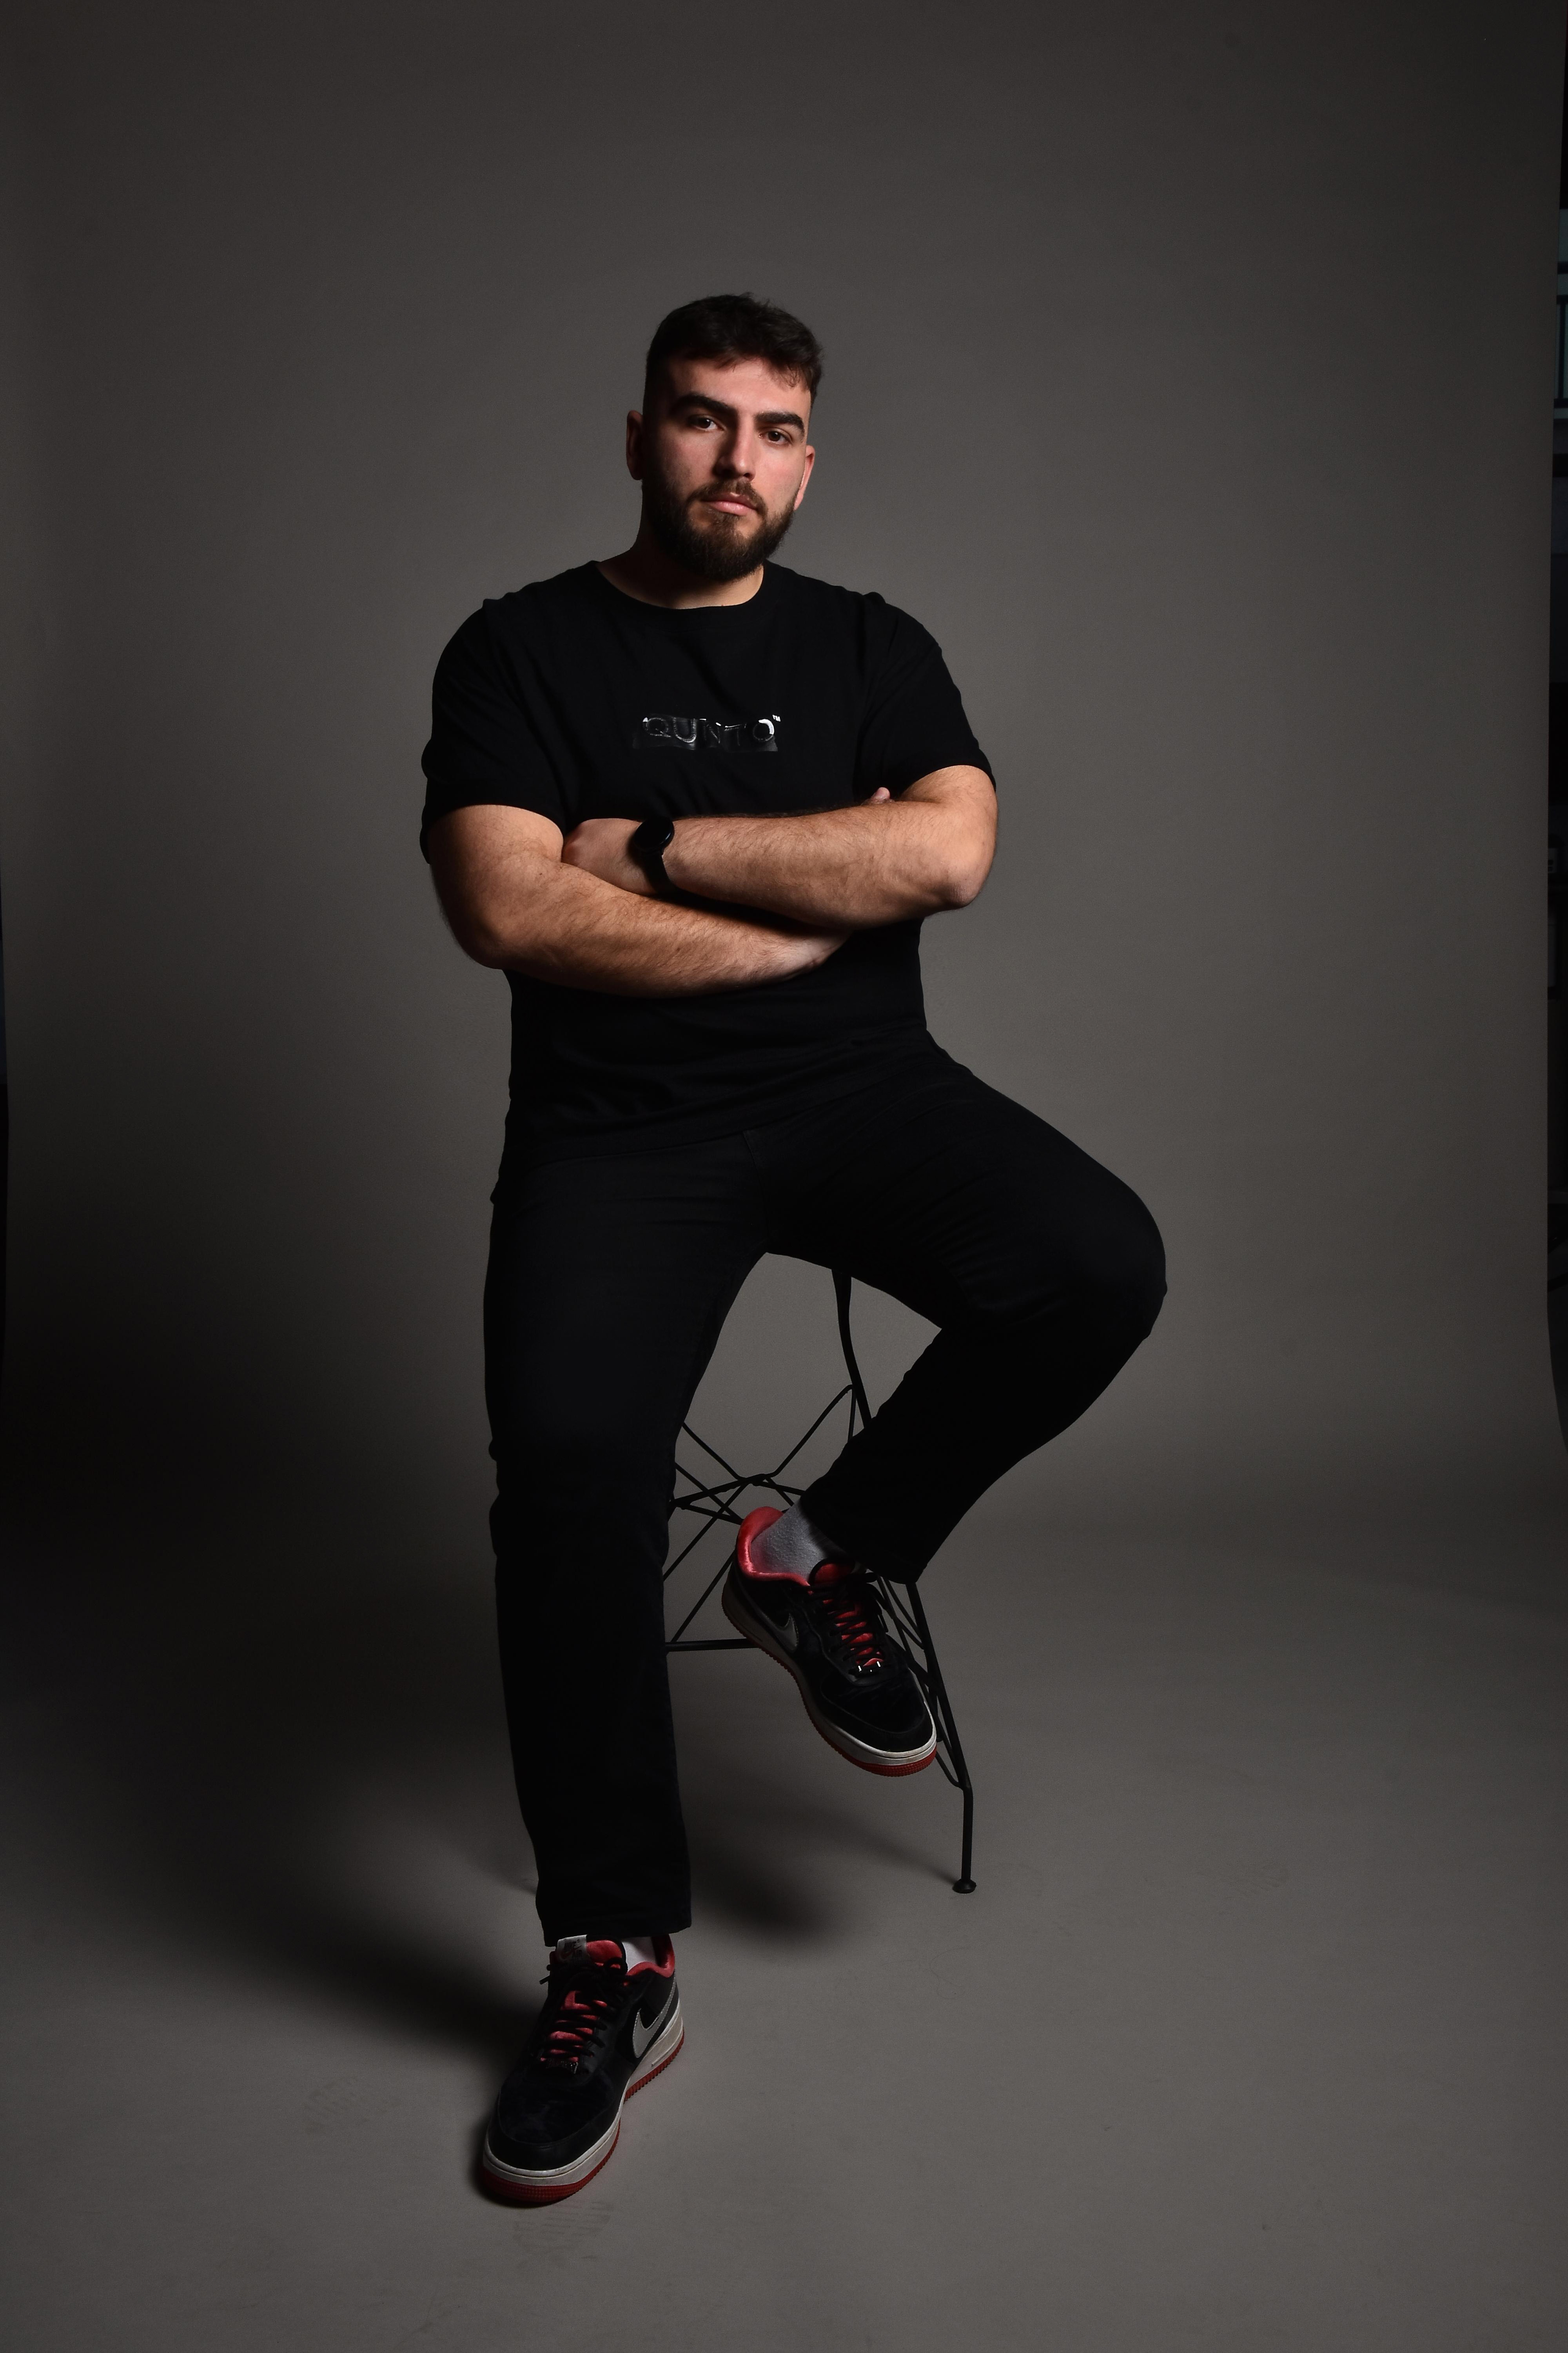
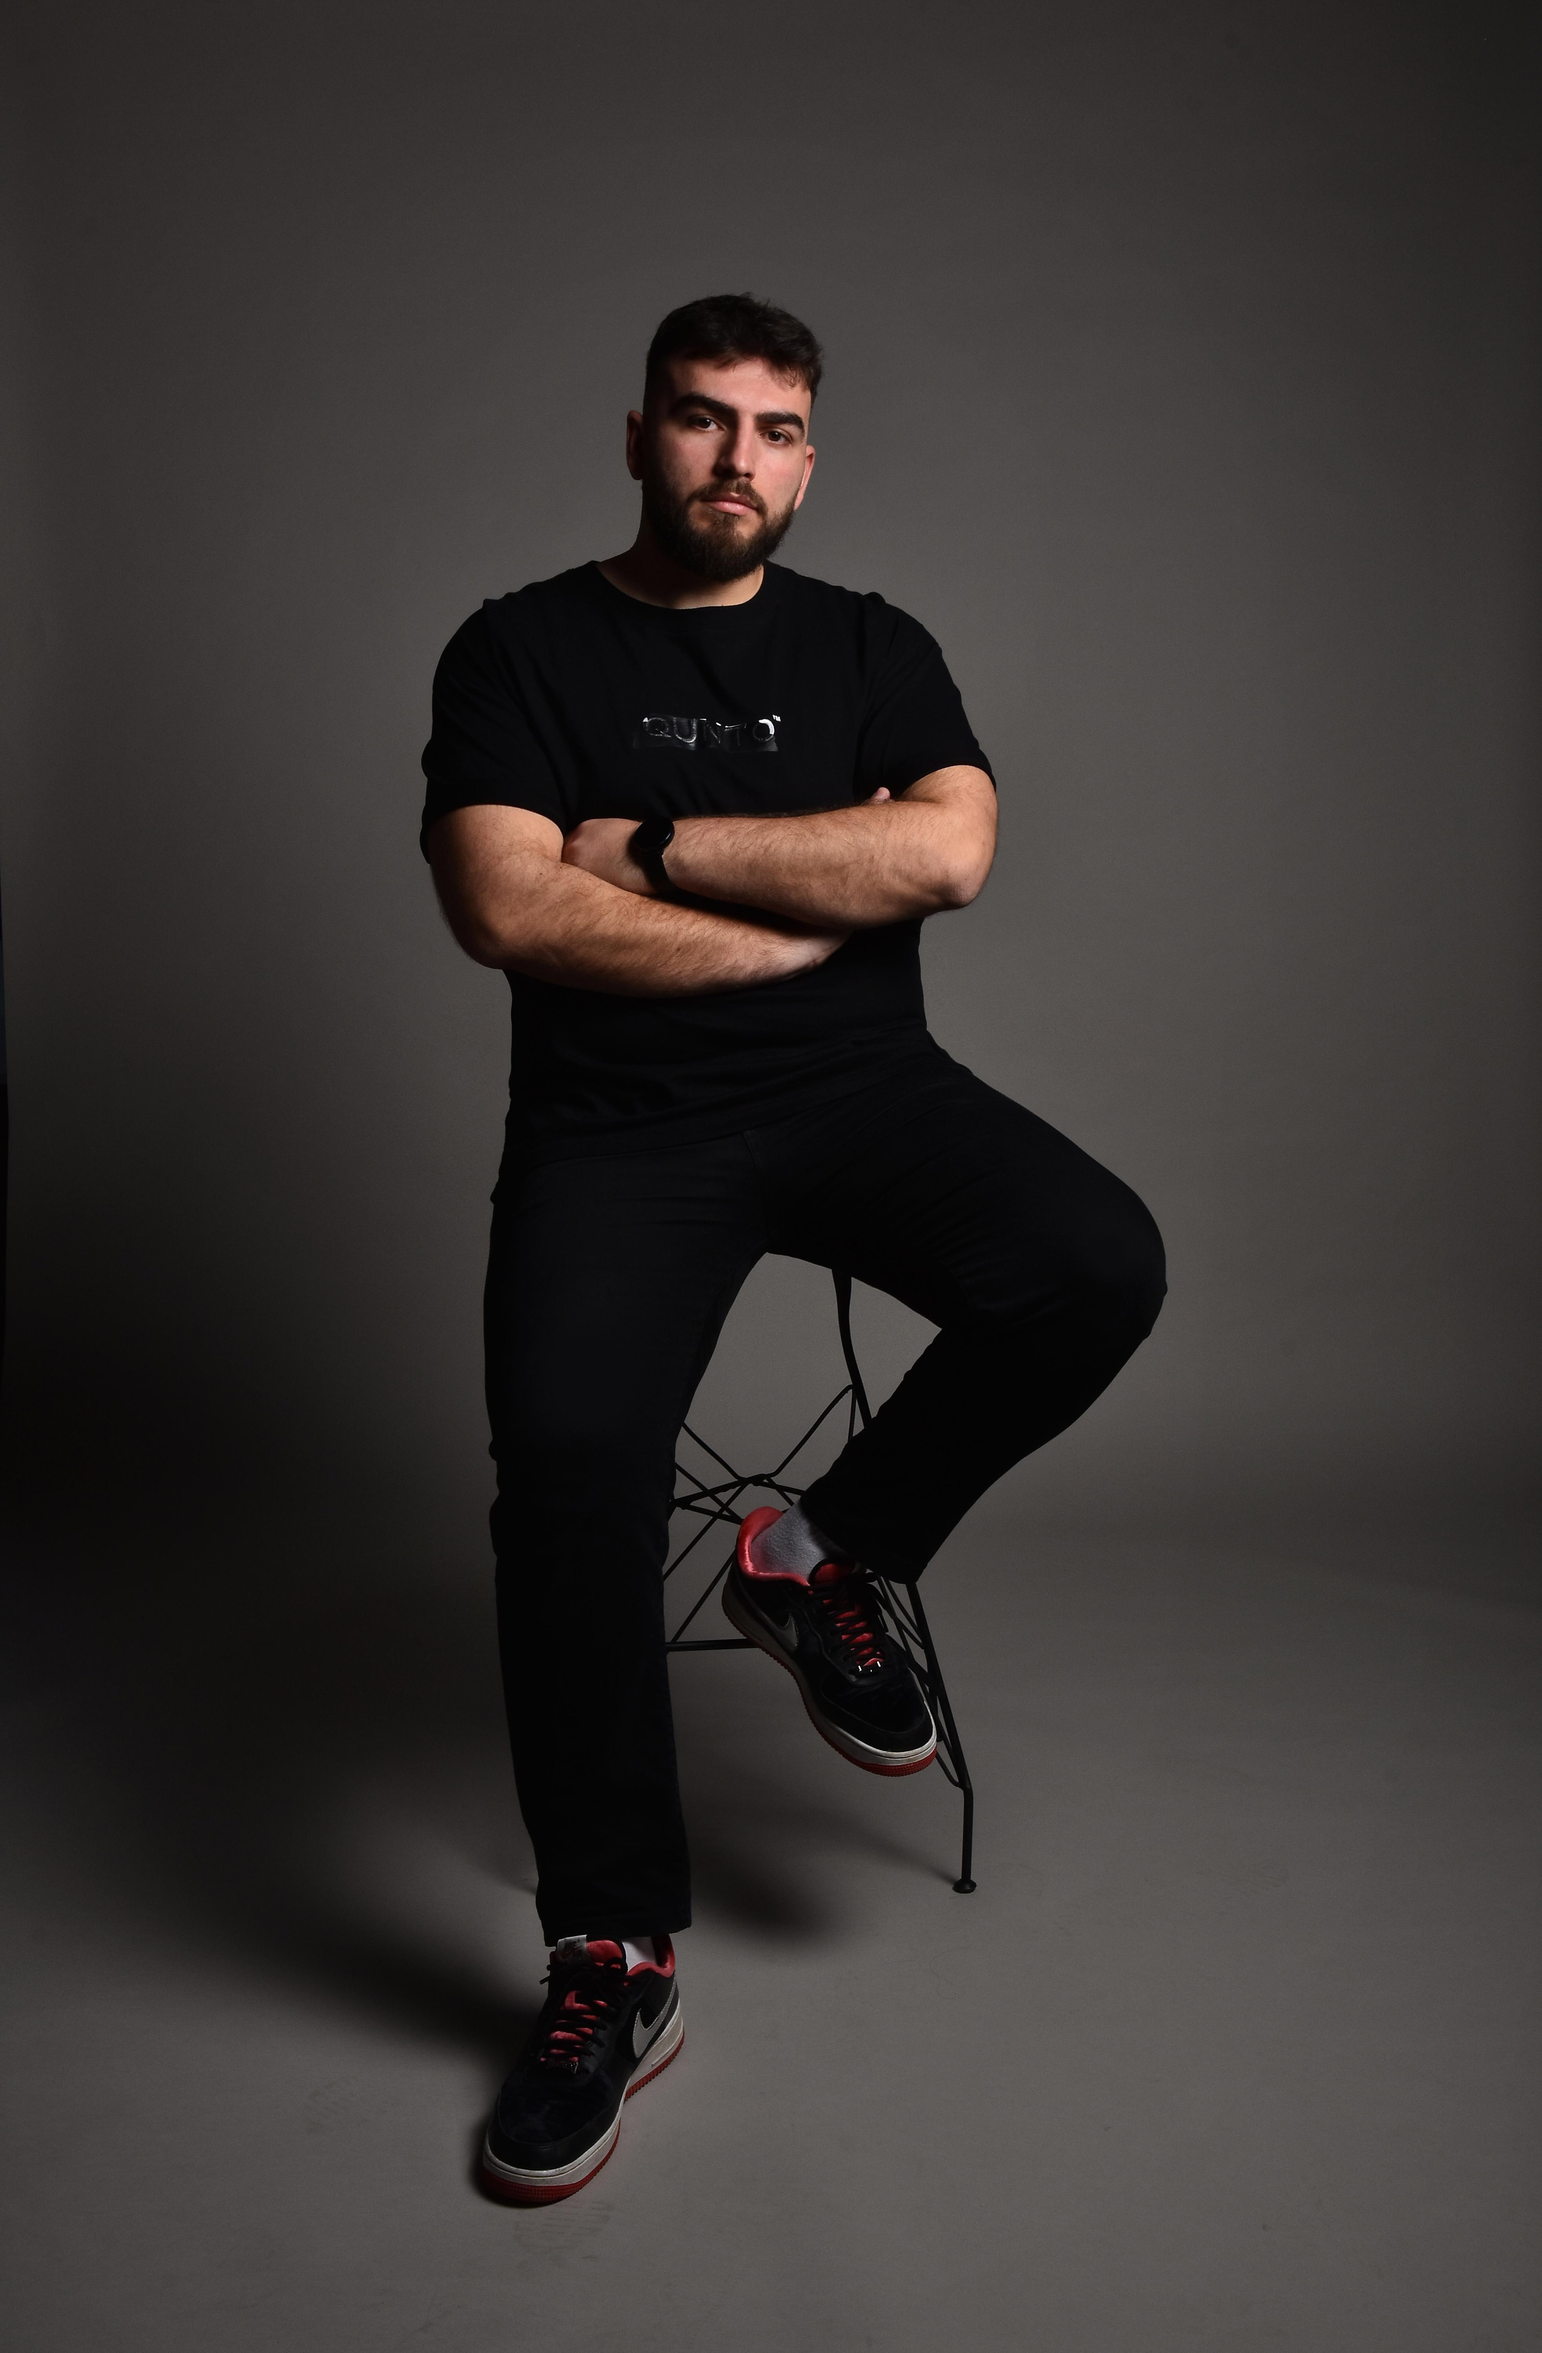
gr

diff --git a/src/Components/TeamPage/teamMembers.js b/src/Components/TeamPage/teamMembers.js
@@ -1,4 +1,4 @@
-import member2 from "../Assets/DSC_5462.JPG";
+import member2 from "../Assets/ariani1.png";
 import member3 from "../Assets/IMG_5735.jpg";
 import member4 from "../Assets/IMG_8442.jpg";
 import member5 from "../Assets/IMG_5733.jpg"
@@ -22,8 +22,10 @@ import fiona from "../Assets/DSC_5024.JPG"
 import kreshnik from "../Assets/32323.png"
 import kestrina from "../Assets/IMG_8444.jpg"
 import alba from "../Assets/IMG_5737.jpg"
-import ariani from "../Assets/DSC_5532.JPG"
+import ariani from "../Assets/ariani2.png"
 import edmiri from "../Assets/DSC_5170.JPG"
+import mirjeta1 from "../Assets/mirjeta.jpg"
+import mirjeta from "../Assets/mirjeta1.jpg"
 
 const teamMembers = [
         
@@ -34,6 +36,7 @@ const teamMembers = [
       position: 'CEO Founder',
       image: ariani,
       hoverImage: member2,
+      linkedinLink: ""
     },
         // Member 3
     {
@@ -42,6 +45,7 @@ const teamMembers = [
       position: 'Operation Manager',
       image: member3,
       hoverImage: alba,
+      linkedinLink: "https://www.linkedin.com/in/alba-krasniqi-87b93a105/"
     },
         // Member 4
         {
@@ -50,6 +54,7 @@ const teamMembers = [
           position: 'Finance Manager',
           image: kestrina,
           hoverImage: member4,
+          linkedinLink: 'https://www.linkedin.com/in/kestrina-hajrizi-92683025a/'
         },
     {
       id: 4,
@@ -57,8 +62,16 @@ const teamMembers = [
       position: 'Account Manager',
       image: member5,
       hoverImage: dora,
+      linkedinLink: 'https://www.linkedin.com/in/dora-kryeziu-872299255/'
     },
-       
+    {
+      id: 40,
+      name: 'Mirjeta Murselaj',
+      position: 'Finance Officer',
+      image: mirjeta1,
+      hoverImage: mirjeta,
+      linkedinLink: 'https://www.linkedin.com/in/mirjeta-murselaj-2a0a94162/'
+    },
     {
       id: 5,
       name: 'Edmir Kuleta',
@@ -70,9 +83,10 @@ const teamMembers = [
     {
       id: 6,
       name: 'Gentrit Mehmeti',
-      position: 'Senior Graphic Designer',
+      position: 'Senior Graphic Designer | UI/UX Designer',
       image: member8,
       hoverImage: gentrit,
+      linkedinLink: 'https://www.linkedin.com/in/gentrit-mehmeti-5a88511b3/'
     },
         // Member 10
     {
@@ -81,6 +95,7 @@ const teamMembers = [
       position: 'Graphic Designer',
       image: member10,
       hoverImage: eduart,
+      linkedinLink: 'https://www.linkedin.com/in/eduart-demaj-524641236/'
     },
         // Member 11
     {
@@ -89,6 +104,7 @@ const teamMembers = [
       position: 'Graphic Designer',
       image: member11,
       hoverImage: hana,
+      linkedinLink: 'https://www.linkedin.com/in/hana-jaha/'
     },
         // Member 12
     {
@@ -97,6 +113,15 @@ const teamMembers = [
       position: 'Graphic Designer',
       image: member12,
       hoverImage: andena, 
+      linkedinLink: 'https://www.linkedin.com/in/andena-rexhepi-069108258/'
+    },
+    {
+      id: 11,
+      name: 'Endrit Morina',
+      position: '3D Artist',
+      image: member14,
+      hoverImage: endrit, 
+      linkedinLink:'https://www.linkedin.com/in/endritmorina/'
     },
     {
       id: 10,
@@ -104,22 +129,7 @@ const teamMembers = [
       position: 'Motion Designer',
       image: member13,
       hoverImage: fuad, 
-    },
-        // Member 14
-    {
-      id: 11,
-      name: 'Endrit Morina',
-      position: '3D Artist',
-      image: member14,
-      hoverImage: endrit, 
-    },
-        // Member 15
-    {
-      id: 12,
-      name: 'Kreshnik Kelmendi',
-      position: 'Web Developer',
-      image: member15,
-      hoverImage: kreshnik, 
+      linkedinLink: 'https://www.linkedin.com/in/fuad-shatri-7411371a5/'
     },
     {
       id: 13,
@@ -127,7 +137,16 @@ const teamMembers = [
       position: 'TikTok Creator',
       image: member16,
       hoverImage: fiona, 
-    }
+      linkedinLink: 'https://www.linkedin.com/in/fiona-rrecaj-45a0b5236/'
+    },
+    {
+      id: 12,
+      name: 'Kreshnik Kelmendi',
+      position: 'Web Developer',
+      image: member15,
+      hoverImage: kreshnik, 
+      linkedinLink: 'https://www.linkedin.com/in/kreshnik-kelmendi-90b796242/'
+    },
 
 
   ];

diff --git a/src/Components/TeamPage/Team.jsx b/src/Components/TeamPage/Team.jsx
@@ -2,7 +2,6 @@ import React, { useState } from 'react';
 import { motion } from 'framer-motion';
 import { useInView } from 'react-intersection-observer';
 import { teamMembers } from './teamMembers';
-import { FaInstagram } from 'react-icons/fa';
 import { FaLinkedin } from 'react-icons/fa';
 import LazyLoad from 'react-lazy-load';
 
@@ -17,6 +16,11 @@ const TeamMember = ({ member, index }) => {
     visible: { opacity: 1, y: 0 },
   };
 
+  const iconVariants = {
+    hidden: { opacity: 0, y: 20 },
+    visible: { opacity: 1, y: 0 },
+  };
+
   const delay = index * 0.15;
 
   return (
@@ -27,7 +31,7 @@ const TeamMember = ({ member, index }) => {
         animate={inView ? 'visible' : 'hidden'}
         variants={variants}
         transition={{ duration: 0.5, delay }}
-        className="text-white justify-center p-2 lg:p-0"
+        className="text-white justify-center p-2 lg:p-0 relative"
         onMouseEnter={() => setIsHovered(true)}
         onMouseLeave={() => setIsHovered(false)}
       >
@@ -35,27 +39,28 @@ const TeamMember = ({ member, index }) => {
           src={isHovered ? member.hoverImage : member.image}
           alt={member.name}
           className="w-full h-[58vh] lg:h-[82vh] object-cover"
-          whileHover={{ scale: isHovered ? 1.01 : 1 }} 
+          whileHover={{ scale: isHovered ? 1.005 : 1 }} 
           transition={{ duration: 0.9, ease: "easeIn" }} 
         />
-        <div className='relative justify-between items-center'>
-          <div className='absolute bottom-4 left-4'>
-            <h2 className="text-lg font-custom1 mt-2 font-bold">{member.name}</h2>
-            <p className="text-base font-custom1">{member.position}</p>
-          </div>
-          <div className='flex gap-x-[10px]'>
-            {member.instagramLink && (
-              <a href={member.instagramLink} target="_blank" rel="noopener noreferrer">
-                <FaInstagram />
-              </a>
-            )}
+        <div className='absolute bottom-4 left-4'>
+          <h2 className="text-lg font-custom1 mt-2 font-bold">{member.name}</h2>
+          <p className="text-base font-custom1">{member.position}</p>
+        </div>
+        {isHovered && (
+          <motion.div
+            className='absolute bottom-4 right-4'
+            initial="hidden"
+            animate="visible"
+            variants={iconVariants}
+            transition={{ duration: 0.5 }}
+          >
             {member.linkedinLink && (
               <a href={member.linkedinLink} target="_blank" rel="noopener noreferrer">
                 <FaLinkedin />
               </a>
             )}
-          </div>
-        </div>
+          </motion.div>
+        )}
       </motion.div>
     </LazyLoad>
   );
@@ -72,6 +77,9 @@ const Team = () => {
 };
 
 export default Team;
+
+
+
 
 
 

diff --git a/src/index.css b/src/index.css
@@ -191,6 +191,56 @@ body{
   margin-top: auto;
   transition: all 1s cubic-bezier(0.165, 0.84, 0.44, 1);
 }
+
+@keyframes slide {
+  from {
+    transform: translateX(0);
+  }
+  to {
+    transform: translateX(-100%);
+  }
+}
+
+.logos {
+  overflow: hidden;
+  padding: 60px 0;
+  white-space: nowrap;
+  position: relative;
+}
+
+.logos:before,
+.logos:after {
+  position: absolute;
+  top: 0;
+  width: 250px;
+  height: 100%;
+  content: "";
+  z-index: 2;
+}
+
+.logos:before {
+  left: 0;
+  background: linear-gradient(to left, rgba(255, 255, 255, 0), white);
+}
+
+.logos:after {
+  right: 0;
+  background: linear-gradient(to right, rgba(255, 255, 255, 0), white);
+}
+
+.logos:hover .logos-slide {
+  animation-play-state: paused;
+}
+
+.logos-slide {
+  display: inline-block;
+  animation: 5s slide infinite linear;
+}
+
+.logos-slide img {
+  height: 50px;
+  margin: 0 40px;
+}
   /* .accordion{
     width: 100%;
   

diff --git a/src/Components/Contact/Map.jsx b/src/Components/Contact/Map.jsx
@@ -4,7 +4,7 @@ const Map = () => {
   return (
     <div className="">
         <div className="w-full">
-            <iframe className='w-full lg:h-[417px] 2xl:h-[80vh]' 
+            <iframe className='w-full h-[60vh] lg:h-[417px] 2xl:h-[80vh]' 
                     id="gmap_canvas" 
                     title="Location of Trekuartista" 
                     src="https://www.google.com/maps/embed?pb=!1m18!1m12!1m3!1d2934.045531673183!2d21.14689637501742!3d42.660390516076355!2m3!1f0!2f0!3f0!3m2!1i1024!2i768!4f13.1!3m3!1m2!1s0x13549f017ca6a309%3A0x272afdb51c6b65bc!2sTrekuartista!5e0!3m2!1sen!2s!4v1699412011049!5m2!1sen!2s">            </iframe>

diff --git a/src/Components/FrontPage/TeamOnHomePage.jsx b/src/Components/FrontPage/TeamOnHomePage.jsx
@@ -13,7 +13,7 @@ const TeamOnHomePage = () => {
     if (window.innerWidth < 768) {
       return 1;
     } else {
-      return 4;
+      return 5;
     }
   }
 
@@ -152,7 +152,7 @@ const TeamOnHomePage = () => {
               <motion.img
                 src={member.image}
                 alt={member.name}
-                className={`w-full h-[50vh] md:h-[90vh] object-cover cursor-pointer ${
+                className={`w-full h-[55vh] md:h-[90vh] object-cover cursor-pointer ${
                                     index === 0 ? 'active-slide' : ''
                                   }`}
                 

diff --git a/src/Components/About/ClientsOnAbout.jsx b/src/Components/About/ClientsOnAbout.jsx
@@ -39,9 +39,9 @@ const ClientsOnAbout = () => {
         </div>
       </div>
 
-      <div className="grid grid-cols-2 md:grid-cols-3 lg:grid-cols-6 lg:gap-x-[93px] gap-x-14 py-5 lg:gap-y-[110px] gap-y-16 px-16 lg:px-[90px] lg:py-[84px]">
+      <div className="logos bg-[#E6E6E6]">
         {partnerLogos.map((logo, index) => (
-          <div key={index}>
+          <div key={index} className='logos-slide'>
             <img className='w-[128px] h-[43px] object-contain' src={logo.src} alt={logo.alt} />
           </div>
         ))}
